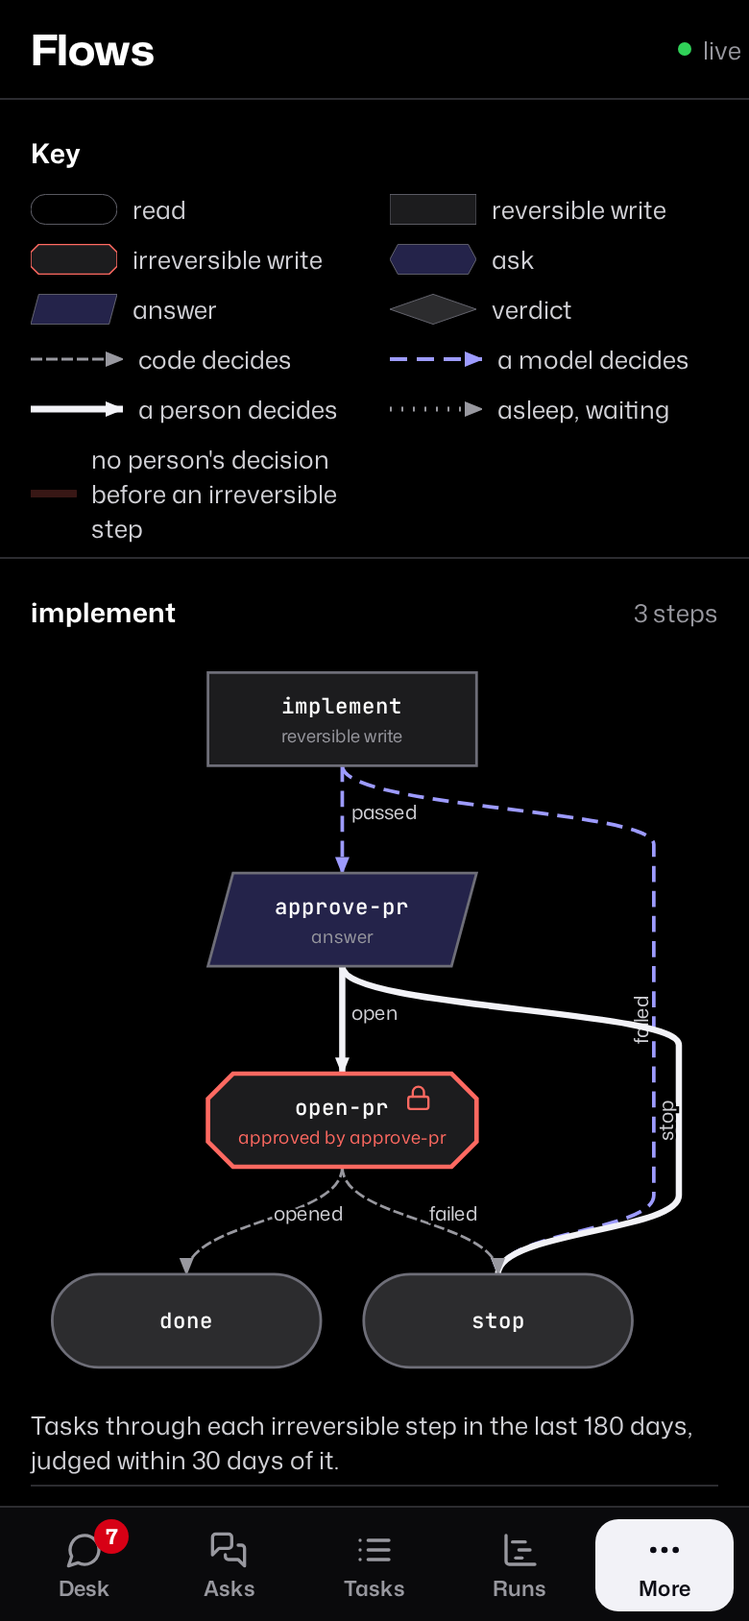
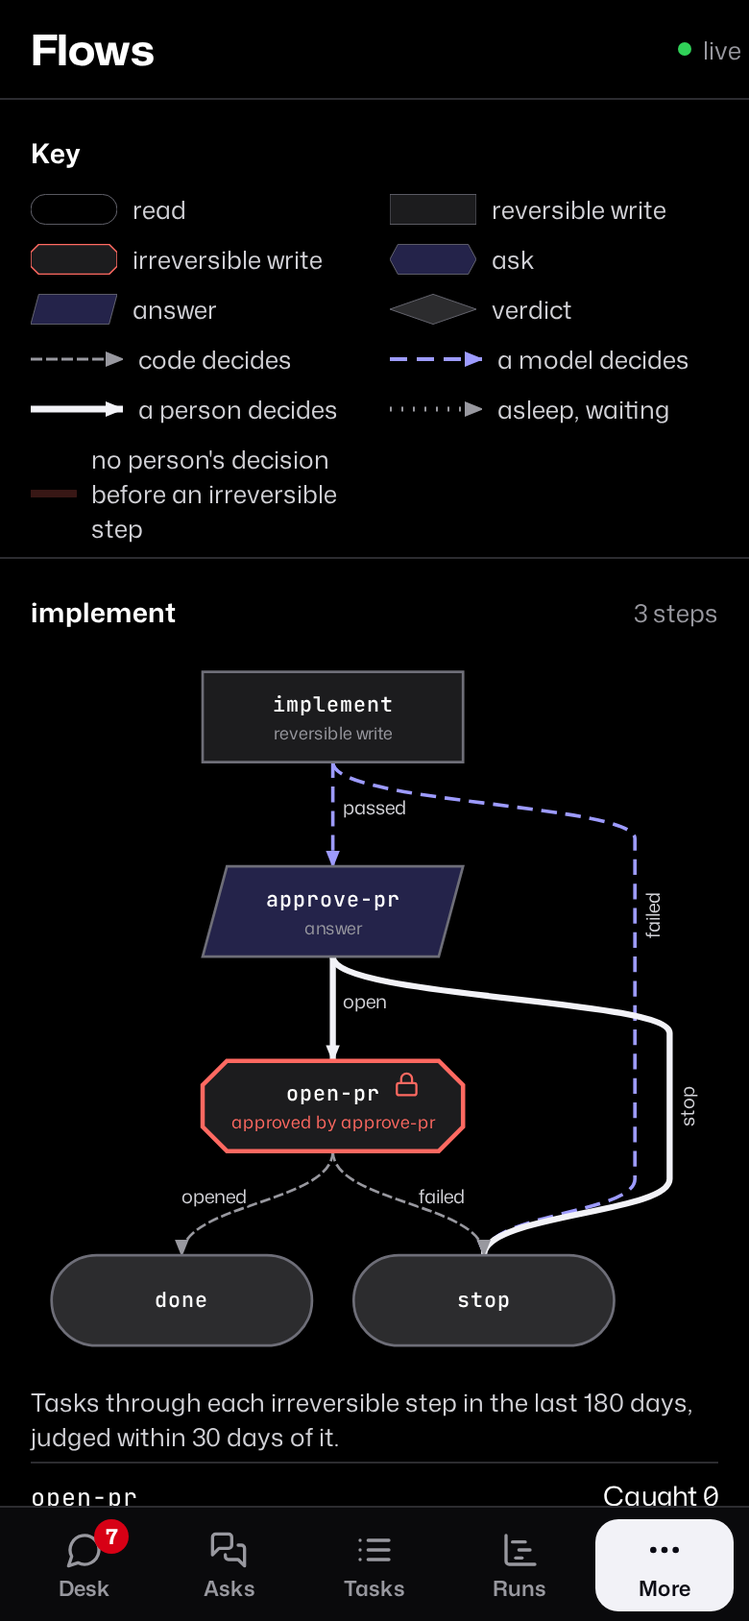
Quiet the empty desk, say Loading everywhere, unstack flow labels, fill the demo (#323)
* Quiet the empty desk, say Loading everywhere, unstack flow labels, fill the demo

An empty desk shows no 64 px "0": it says "Nothing needs you" in the
body role, its empty Up next and Since you looked read as plain
sentences, and the wide desk drops an empty table header. Every loading
line, web and Herdr, says "Loading ...", and DESIGN.md drops the
skeleton rows the code never drew.

Flow lanes sit 20 px apart. A turned label sits right of its own lane,
at the longest stretch no outer lane bends across, and a slanted label
sits on the side its edge heads to, off its own curve.

The demo seed gains a live run, a command ask, a snoozed ask, a stalled
queue's banner, a running check, and a task with Markdown brief and
plan text, so a design review can reach those states.

* Keep loop labels on their lane, word the empty count for stopped work, seed a check the view can show

A loop back runs up its lane, so its label search took a reversed span
and put the label at the lane's end. The span is now ordered first.

With no open ask but stopped work, "Nothing needs you" was wrong; the
count says "No asks need you" over the line that names it.

The intake stores only completed check runs, so the seeded running
check never reached the listing. The seed adds a skipped check instead.

Changed region(s): [[0.0308, 0.4005, 0.9538, 0.9242], [0.2462, 0.4005, 0.2769, 0.4621]]

diff --git a/crates/priory-core/web/app.js b/crates/priory-core/web/app.js
@@ -11,7 +11,7 @@ import { KINDS, edgeStyle, historyRows, lockBadge, nodeShape, timeline, ungatedP
 import { emptyDetail, eventWords, handled, neverOwned, sinceWords, routeAction, unheardActs, unheardNote, unroutedNote } from "./inbox.js";
 import { editBody, issueName, laneLayout, momentWords, stages, successors } from "./batches.js";
 import { EARLIER_CAP, KEYS, keyboardSession, paintRows, sayLine, screenRows, screenWatch } from "./terminal.js";
-import { actionNote, batchParts, capsuleWords, countWords, dueParts, memoryNote, memoryTag, mergeSince, nextLink, onRoom, progressView, rowAction, sectionInView, sinceGroups } from "./desk.js";
+import { actionNote, batchParts, capsuleWords, countHead, countWords, dueParts, memoryNote, memoryTag, mergeSince, nextLink, onRoom, progressView, rowAction, sectionInView, sinceGroups } from "./desk.js";
 import { TASK_VIEWS, elsewhere, filtered, olderPart, remoteActs, remoteId, remoteSent, taskFacets, taskLabel, taskViews, triageWords, workStep } from "./tasks.js";
 import { RUN_FACETS, RUN_VIEWS, duration, runState, runViews, tokenText } from "./runs.js";
 import { PANELS, backTo, pageTitle } from "./pages.js";
@@ -634,9 +634,10 @@ function upNext(model, queueLink = true) {
   const what = (run) => html`<span class="mono">${run.key ? taskLabel(run.key) : run.trigger}</span> ${run.why}`;
   const body = next.length
     ? html`<ol>${next.map((run) => html`<li>${timeTag(run.at, when(run))}${run.task ? html`<a href="/tasks/${run.task}" title="task ${run.task}">${what(run)}</a>` : html`<span>${what(run)}</span>`}</li>`)}</ol>`
-    : html`<p>Nothing is queued or scheduled to run next.</p>`;
+    : null;
   const link = queueLink ? html`<a class="open" href="/queue">Open the queue</a>` : "";
-  return html`<div class="sec">Up next<span>next 3 runs</span></div><div class="strip">${body}${link}</div>`;
+  const shown = body ? html`<div class="strip">${body}${link}</div>` : html`<p class="empty">Nothing is queued or scheduled to run next.</p>${link}`;
+  return html`<div class="sec">Up next<span>next 3 runs</span></div>${shown}`;
 }
 
 // The one next thing (DESIGN.md, Desk): the desk's `next`, an alarm or the ask that ranks first, and why.
@@ -665,8 +666,9 @@ function sinceYouLooked() {
   const body = groups.length
     ? groups.map((group) => html`<div class="sgroup">${group.task ? html`<a class="mono" href="/tasks/${group.task}" title="task ${group.task}">${taskLabel(group.key)}</a>` : html`<span class="mono">factory</span>`}
       <ol>${group.events.map((event) => html`<li>${timeTag(event.time)}<span>${sinceWords(event.what)}</span></li>`)}</ol></div>`)
-    : html`<p>Nothing happened since you looked.</p>`;
-  return html`<div class="sec">Since you looked<span>${from ? `since ${today(from) ? clock(from) : date(from)}` : "latest 50"}</span></div><div class="strip since" data-since>${body}</div>`;
+    : null;
+  const shown = body ? html`<div class="strip since" data-since>${body}</div>` : html`<p class="empty" data-since>Nothing happened since you looked.</p>`;
+  return html`<div class="sec">Since you looked<span>${from ? `since ${today(from) ? clock(from) : date(from)}` : "latest 50"}</span></div>${shown}`;
 }
 
 function deskBody(wide) {
@@ -833,6 +835,7 @@ const review = html`<span class="task-acts"><a class="btn secondary act" href="/
 const itemActs = (item) => (["blocked", "failed"].includes(item.kind) ? taskActs(item.task, item.kind) : rowActs(item));
 
 function deskTable(model, selected) {
+  if (!model.open.length && !model.stopped.length && !model.todos.length && !model.other.length) return "";
   const itemLine = (item) => item.kind === "memories" ? html`<tr>
     <td>${stateWord("memories")}</td><td class="mono"></td><td></td><td class="q full"><span>${item.candidates?.length ?? 0} memory candidates: ${(item.candidates || []).map((candidate) => candidate.name).join(", ")}</span>${fold(review)}</td>
     <td class="recw">${review}</td><td class="r">${timeTag(item.since)}</td></tr>` : html`<tr>
@@ -1590,7 +1593,7 @@ function terminalBody({ term, task, tmux, end }) {
   if (stale && !end && !gone) notes.push(["warn", "unplug", screen ? `Reconnecting. Screen from ${clock(new Date(at).toISOString())}, ${Math.round((Date.now() - at) / 1000)} s ago.` : "Reconnecting. The screen could not be read yet."]);
   if (end) notes.push(["", (STATES[end] || [, "circle-help"])[1], screen ? `Run ${run} ended as ${end}. This is the last screen this page saw.` : `Run ${run} ended as ${end}.`]);
   else if (gone) notes.push(["warn", "unplug", `This server reads no screen of run ${run}. Run priory screen ${task} on the runner to see why.`]);
-  else if (!screen && !stale) notes.push(["", "clock", "Reading the screen…"]);
+  else if (!screen && !stale) notes.push(["", "clock", "Loading the screen…"]);
   const keys = keyboard.state();
   const held = end ? null : keys.held;
   const offer = !end && !held && Boolean(screen?.keyboard);
@@ -2554,7 +2557,7 @@ const flowEdge = (edge) => {
   const line = (extra) => html`<path d="${edge.d}" fill="none" stroke-width="${style.width}" ${style.dash ? raw(`stroke-dasharray="${style.dash}"`) : ""} class="${extra}"/>`;
   return html`<g class="fedge by-${edge.by}${edge.ungated ? " ungated" : ""}"><title>${edge.outcome}: ${edge.from} to ${edge.to}, ${BY_WORD[edge.by] ?? edge.by}${edge.ungated ? ", reaches an irreversible step with no person's decision" : ""}</title>
     ${edge.ungated ? html`<path d="${edge.d}" fill="none" stroke-width="${style.width + 6}" class="halo"/>` : ""}${line("fline")}
-    <text x="${edge.mid.x + (edge.vertical ? 0 : 5)}" y="${edge.mid.y}" class="felabel"${edge.vertical ? raw(` transform="rotate(-90 ${edge.mid.x} ${edge.mid.y})" text-anchor="middle"`) : ""}>${clip(edge.outcome, 14)}</text></g>`;
+    <text x="${edge.label.x}" y="${edge.label.y}" text-anchor="${edge.label.anchor}" class="felabel"${edge.label.turned ? raw(` transform="rotate(-90 ${edge.label.x} ${edge.label.y})"`) : ""}>${clip(edge.outcome, 14)}</text></g>`;
 };
 
 const flowLegend = () => html`<section class="sect flegend" aria-labelledby="legend-title"><h2 class="sh" id="legend-title">Key</h2>
@@ -2588,7 +2591,7 @@ function flowsPage(compact) {
   const head = compact ? html`<div class="top"><h1>Flows</h1><span class="sp"></span>${connection()}</div>` : html`<div class="lhead"><h1>Flows</h1></div>`;
   const flows = state.data.flows;
   if (!flows && state.flowsError) return html`${head}<p class="empty" role="alert">The flows did not load: ${state.flowsError}. Run <code>priory check --explain</code> meanwhile.</p><p class="empty"><button class="btn secondary" data-action="flows-retry">Retry</button></p>`;
-  if (!flows) { setTimeout(loadFlows); return html`${head}<p class="empty" role="status">Loading the flows.</p>`; }
+  if (!flows) { setTimeout(loadFlows); return html`${head}<p class="empty" role="status">Loading the flows…</p>`; }
   const body = flows.workflows.length ? html`${flowLegend()}${flows.workflows.map((workflow) => flowSection(workflow, flows.paths, flows.irreversible))}` : html`<p class="empty">This factory has no workflows. Add one under <code>workflows/</code>.</p>`;
   return html`${head}<div class="panel" role="region" aria-label="Flows"><div class="scroll">${body}</div></div>`;
 }
@@ -2735,10 +2738,10 @@ async function turnPush(on) {
 // Screens
 function deskPhone(withCapsule = true) {
   const { model, views, banner, rows } = deskBody(false);
-  const n = model.open.length;
+  const head = countHead(model.open.length);
   return html`<div class="top"><span class="fac">${state.data.views.factory}</span>${connection()}</div>
     <div class="panel" role="region" aria-label="Desk"><h1 class="sr">Desk</h1><div class="scroll ${withCapsule ? "desk-end" : ""}">
-      <div class="count"><span class="n num">${n}</span><span class="w">${n === 1 ? "ask needs you" : "asks need you"}<span>${countLine(model)}</span></span></div>
+      <div class="count ${head.n ? "" : "quiet"}">${head.n ? html`<span class="n num">${head.n}</span>` : ""}<span class="w">${head.words}<span>${countLine(model)}</span></span></div>
       ${nextCard(model)}${views}${banner}${rows}</div>${withCapsule ? capsule(model) : ""}</div>`;
 }
 
@@ -2751,9 +2754,9 @@ function asksPhone() {
 function listPanel(panel, wide) {
   if (panel === "desk") {
     const { model, views, banner, rows } = deskBody(wide);
-    const n = model.open.length;
+    const head = countHead(model.open.length);
     return html`<div class="list" role="region" aria-label="Desk"><div class="lhead"><h1>Desk</h1>
-      <span class="cnt"><span class="n num">${n}</span><span class="w">${n === 1 ? "ask needs you" : "asks need you"}<span>${countLine(model)}</span></span></span></div>
+      <span class="cnt">${head.n ? html`<span class="n num">${head.n}</span>` : ""}<span class="w">${head.words}<span>${countLine(model)}</span></span></span></div>
       ${nextCard(model)}${views}${banner}<div class="scroll">${rows}</div>${wide ? keyHints() : ""}</div>`;
   }
   if (panel === "inbox") {

diff --git a/crates/priory-core/web/flows.test.js b/crates/priory-core/web/flows.test.js
@@ -124,3 +124,53 @@ test("each irreversible step of a workflow shows its history: counts, then the b
   ]);
   assert.deepEqual(historyRows([{ workflow: "implement", step: "open-pr", risk_estimate: null }], "implement"), []);
 });
+
+// An 11 px label turned a quarter: its ascent reaches 11 px left of the baseline, its descent 3 px right.
+test("a turned label sits between its own lane and the next, clear of every line", () => {
+  const drawing = timeline(implement, new Set());
+  const turned = drawing.edges.filter((each) => each.label.turned);
+  assert.ok(turned.length >= 3);
+  const lanes = turned.map((each) => each.lane).sort((a, b) => a - b);
+  for (const each of turned) {
+    const [left, right] = [each.label.x - 11, each.label.x + 3];
+    assert.ok(lanes.every((lane) => lane < left - 1 || lane > right + 1), `${each.outcome} sits on a lane`);
+    assert.ok(left > each.lane && right < drawing.width, `${each.outcome} leaves its lane's band`);
+  }
+});
+
+test("a slanted label sits on the side its edge heads to, off its own curve", () => {
+  const drawing = timeline(implement, new Set());
+  const opened = drawing.edges.find((each) => each.outcome === "opened");
+  const failed = drawing.edges.find((each) => each.from === "open-pr" && each.outcome === "failed");
+  assert.deepEqual([opened.label.turned, opened.label.anchor], [false, "end"]);
+  assert.ok(opened.label.x < opened.mid.x);
+  assert.deepEqual([failed.label.turned, failed.label.anchor], [false, "start"]);
+  assert.ok(failed.label.x > failed.mid.x);
+});
+
+// A lane edge bends from its node to its lane between 24 and 44 px past the node, at each end, so
+// it crosses every lane inside its own there.
+test("a turned label sits where no outer lane edge bends across it", () => {
+  const drawing = timeline(implement, new Set());
+  const turned = drawing.edges.filter((each) => each.label.turned);
+  for (const each of turned) {
+    const half = (each.outcome.length * 6.5) / 2;
+    const [top, bottom] = [each.label.y - half, each.label.y + half];
+    for (const outer of turned.filter((other) => other.lane > each.lane)) {
+      const [from, to] = [Number(/^M[\d.]+ ([\d.]+)/.exec(outer.d)[1]), Number(/V([\d.]+)/.exec(outer.d)[1])];
+      for (const [a, b] of [[from + 20, from + 48], [to - 4, to + 24]]) assert.ok(bottom < a || top > b, `${each.outcome} is crossed by ${outer.outcome}`);
+    }
+  }
+});
+
+test("a loop back's turned label stays on its own lane's straight part, inside the drawing", () => {
+  const looping = structuredClone(implement);
+  looping.steps[1].edges[1] = edge("rejected", "plan", "human");
+  looping.steps[0].edges.push(edge("again", "plan", "model"));
+  const drawing = timeline(looping, new Set());
+  for (const each of drawing.edges.filter((one) => one.label.turned)) {
+    const [low, high] = [Math.min(...each.straight), Math.max(...each.straight)];
+    assert.ok(each.label.y > low && each.label.y < high, `${each.outcome} sits at its lane's end`);
+    assert.ok(each.label.y > 0 && each.label.y < drawing.height, `${each.outcome} leaves the drawing`);
+  }
+});

diff --git a/adapters/herdr/mods/priory-flows/view.js b/adapters/herdr/mods/priory-flows/view.js
@@ -6,7 +6,8 @@ export const KINDS = ["read", "reversible", "irreversible", "ask", "answer", "ve
 const WRITES = { reversible: "reversible write", irreversible: "irreversible write" };
 const NODE = { width: 150, height: 52 };
 const GAP = { column: 24, row: 60, edge: 12 };
-const LANE = { pad: 8, step: 14 };
+// A lane is wide enough for its turned label to sit beside its line, clear of the next lane.
+const LANE = { pad: 8, step: 20 };
 const PER_ROW = 2;
 
 /**
@@ -57,6 +58,26 @@ export function ungatedPairs(workflow, paths) {
     entry.path.slice(1).forEach((to, at) => pairs.add(`${entry.path[at]}>${to}`));
   }
   return pairs;
+}
+
+/**
+ * Where a turned label sits along its lane: the middle of the longest stretch of the lane's
+ * straight part that no outer lane edge bends across, 24 px either side of its straight part.
+ * @param {any} edge @param {any[]} edges
+ */
+function clearOf(edge, edges) {
+  // A loop back runs up its lane, so its straight part starts below where it ends.
+  const [top, bottom] = [Math.min(...edge.straight), Math.max(...edge.straight)];
+  const bends = edges.filter((other) => other.label.turned && other.lane > edge.lane)
+    .flatMap((other) => [[other.straight[0] - 24, other.straight[0] + 4], [other.straight[1] - 4, other.straight[1] + 24]])
+    .sort((a, b) => a[0] - b[0]);
+  let [best, from] = [[top, top], top];
+  for (const [start, end] of [...bends, [bottom, bottom]]) {
+    const to = Math.min(start, bottom);
+    if (to - from > best[1] - best[0]) best = [from, to];
+    from = Math.max(from, end);
+  }
+  return (best[0] + best[1]) / 2;
 }
 
 /**
@@ -124,11 +145,15 @@ export function timeline(workflow, ungated) {
       ? `M${start.x} ${start.y}C${start.x} ${start.y + 24} ${lane} ${start.y + 24} ${lane} ${start.y + 44}V${end.y - 44}C${lane} ${end.y - 24} ${end.x} ${end.y - 24} ${end.x} ${end.y}`
       : `M${start.x} ${start.y}C${start.x} ${start.y + 30} ${end.x} ${end.y - 30} ${end.x} ${end.y}`;
     const mid = skips ? { x: lane - 3, y: (start.y + end.y) / 2 } : { x: (start.x + end.x) / 2, y: (start.y + end.y) / 2 };
+    // A slanted label goes on the side its edge heads to, where its own curve is not.
+    const left = end.x < start.x;
+    const label = skips ? { x: lane + 14, y: mid.y, anchor: "middle", turned: true } : { x: mid.x + (left ? -6 : 6), y: mid.y, anchor: left ? "end" : "start", turned: false };
     return {
-      from: step.id, to: next.to, outcome: next.outcome, by: next.by, d, mid, back: looped, vertical: skips,
+      from: step.id, to: next.to, outcome: next.outcome, by: next.by, d, mid, lane: skips ? lane : null, label, back: looped, vertical: skips, straight: [start.y + 44, end.y - 44],
       ungated: next.by !== "human" && ungated.has(`${step.id}>${next.to}`),
     };
   }));
+  for (const edge of edges) if (edge.label.turned) edge.label.y = clearOf(edge, edges);
   const width = block + lanes * LANE.step + LANE.pad;
   const height = (rows.length) * (NODE.height + GAP.row) - GAP.row + 2 * GAP.edge;
   const text = [

diff --git a/crates/priory-core/web/flows.js b/crates/priory-core/web/flows.js
@@ -6,7 +6,8 @@ export const KINDS = ["read", "reversible", "irreversible", "ask", "answer", "ve
 const WRITES = { reversible: "reversible write", irreversible: "irreversible write" };
 const NODE = { width: 150, height: 52 };
 const GAP = { column: 24, row: 60, edge: 12 };
-const LANE = { pad: 8, step: 14 };
+// A lane is wide enough for its turned label to sit beside its line, clear of the next lane.
+const LANE = { pad: 8, step: 20 };
 const PER_ROW = 2;
 
 /**
@@ -57,6 +58,26 @@ export function ungatedPairs(workflow, paths) {
     entry.path.slice(1).forEach((to, at) => pairs.add(`${entry.path[at]}>${to}`));
   }
   return pairs;
+}
+
+/**
+ * Where a turned label sits along its lane: the middle of the longest stretch of the lane's
+ * straight part that no outer lane edge bends across, 24 px either side of its straight part.
+ * @param {any} edge @param {any[]} edges
+ */
+function clearOf(edge, edges) {
+  // A loop back runs up its lane, so its straight part starts below where it ends.
+  const [top, bottom] = [Math.min(...edge.straight), Math.max(...edge.straight)];
+  const bends = edges.filter((other) => other.label.turned && other.lane > edge.lane)
+    .flatMap((other) => [[other.straight[0] - 24, other.straight[0] + 4], [other.straight[1] - 4, other.straight[1] + 24]])
+    .sort((a, b) => a[0] - b[0]);
+  let [best, from] = [[top, top], top];
+  for (const [start, end] of [...bends, [bottom, bottom]]) {
+    const to = Math.min(start, bottom);
+    if (to - from > best[1] - best[0]) best = [from, to];
+    from = Math.max(from, end);
+  }
+  return (best[0] + best[1]) / 2;
 }
 
 /**
@@ -124,11 +145,15 @@ export function timeline(workflow, ungated) {
       ? `M${start.x} ${start.y}C${start.x} ${start.y + 24} ${lane} ${start.y + 24} ${lane} ${start.y + 44}V${end.y - 44}C${lane} ${end.y - 24} ${end.x} ${end.y - 24} ${end.x} ${end.y}`
       : `M${start.x} ${start.y}C${start.x} ${start.y + 30} ${end.x} ${end.y - 30} ${end.x} ${end.y}`;
     const mid = skips ? { x: lane - 3, y: (start.y + end.y) / 2 } : { x: (start.x + end.x) / 2, y: (start.y + end.y) / 2 };
+    // A slanted label goes on the side its edge heads to, where its own curve is not.
+    const left = end.x < start.x;
+    const label = skips ? { x: lane + 14, y: mid.y, anchor: "middle", turned: true } : { x: mid.x + (left ? -6 : 6), y: mid.y, anchor: left ? "end" : "start", turned: false };
     return {
-      from: step.id, to: next.to, outcome: next.outcome, by: next.by, d, mid, back: looped, vertical: skips,
+      from: step.id, to: next.to, outcome: next.outcome, by: next.by, d, mid, lane: skips ? lane : null, label, back: looped, vertical: skips, straight: [start.y + 44, end.y - 44],
       ungated: next.by !== "human" && ungated.has(`${step.id}>${next.to}`),
     };
   }));
+  for (const edge of edges) if (edge.label.turned) edge.label.y = clearOf(edge, edges);
   const width = block + lanes * LANE.step + LANE.pad;
   const height = (rows.length) * (NODE.height + GAP.row) - GAP.row + 2 * GAP.edge;
   const text = [

diff --git a/crates/priory-core/web/app.css b/crates/priory-core/web/app.css
@@ -82,6 +82,8 @@ input { font: 400 16px/20px var(--font-ui); color: var(--text); background: var(
 .count .n { font: var(--count-weight) var(--type-count) var(--font-display); font-stretch: var(--count-stretch); letter-spacing: var(--count-tracking); color: var(--count); }
 .count .w { font: 700 var(--type-hero) var(--font-display); font-stretch: var(--display-stretch); letter-spacing: -0.3px; }
 .count .w span { display: block; font: 400 var(--type-caption) var(--font-ui); font-stretch: 100%; letter-spacing: 0; color: var(--text-3); margin-top: 2px; }
+/* An empty desk is quiet: no number, the words in the body role (DESIGN.md, Desk). */
+.count.quiet .w { font: 600 var(--type-body) var(--font-ui); font-stretch: 100%; letter-spacing: 0; color: var(--text-2); }
 
 /* Saved views */
 .views { flex: none; display: flex; gap: var(--space-2); padding: 5px var(--gutter); flex-wrap: wrap; }
@@ -132,6 +134,8 @@ a.facet[aria-current="true"] { background: var(--action-soft); color: var(--acti
 .row.one .tile, .row.one .chev { grid-row: auto; grid-column: auto; margin: 0; }
 .row.past .l2 { color: var(--text-2); font-weight: 400; }
 .empty { padding: var(--space-8) var(--gutter); color: var(--text-2); font: 400 var(--type-small) var(--font-ui); max-width: 52ch; }
+.sec + .empty { padding: 2px var(--gutter) 12px; }
+.sec + .empty + .open { display: inline-flex; align-items: center; min-height: 44px; margin: -12px var(--gutter) 0; color: var(--action-text); font: 500 var(--type-small) var(--font-ui); }
 .empty code, .note code { font: 400 13px/1 var(--font-mono); background: var(--raised); padding: 2px 5px; border-radius: var(--radius-sm); }
 .strip { margin: 0 var(--gutter); padding: 12px; border: 1px solid var(--line); border-radius: var(--radius-md); color: var(--text-3); font: 400 var(--type-small) var(--font-ui); }
 .strip li { display: grid; grid-template-columns: 96px minmax(0, 1fr); gap: 8px; padding: 6px 0; color: var(--text-2); }

diff --git a/adapters/herdr/test/flows.test.js b/adapters/herdr/test/flows.test.js
@@ -60,10 +60,16 @@ test("an upright lane label that would cover another moves down a line, and the 
   const flows = fixture("flows-groom");
   const [groom] = flows.workflows;
   const edges = timeline(groom, ungatedPairs(groom.name, flows.paths)).edges;
-  const spots = labelSpots(edges, 1);
-  const at = (from, to) => spots[edges.findIndex((edge) => edge.from === from && edge.to === to)];
-  // rejected and failed share their lanes' middle, 42 px apart: the later one moves 16 px down.
-  assert.deepEqual([at("approve-plan", "stop"), at("implement-green", "stop")], [{ x: 365, y: 422 }, { x: 407, y: 438 }]);
+  const spotsAt = (scale) => {
+    const spots = labelSpots(edges, scale);
+    return (from, to) => spots[edges.findIndex((edge) => edge.from === from && edge.to === to)];
+  };
+  // At full size, rejected and failed share their lanes' middle 60 px apart, so neither moves.
+  const at = spotsAt(1);
+  assert.deepEqual([at("approve-plan", "stop"), at("implement-green", "stop")], [{ x: 371, y: 422 }, { x: 431, y: 422 }]);
   assert.deepEqual(at("groom", "implement"), { x: 351, y: 142 });
   assert.deepEqual(at("groom", "approve-plan"), { x: 135.5, y: 86 });
+  // At half size they sit 30 px apart: the later one moves down whole lines until it covers none.
+  const half = spotsAt(0.5);
+  assert.deepEqual([half("approve-plan", "stop"), half("implement-green", "stop")], [{ x: 188.5, y: 207 }, { x: 218.5, y: 255 }]);
 });

diff --git a/crates/priory-core/web/desk.test.js b/crates/priory-core/web/desk.test.js
@@ -1,6 +1,6 @@
 import { test } from "node:test";
 import assert from "node:assert/strict";
-import { nextLink, onRoom, sinceGroups, mergeSince, progressView, sectionInView, dueText, rowAction, actionNote, batchParts, countWords, memoryNote, memoryTag, capsuleWords } from "./desk.js";
+import { nextLink, onRoom, sinceGroups, mergeSince, progressView, sectionInView, dueText, rowAction, actionNote, batchParts, countWords, memoryNote, memoryTag, capsuleWords, countHead } from "./desk.js";
 
 const why = "work stopped and waits on a person";
 
@@ -151,6 +151,12 @@ test("the Desk's count line names every item Needs me counts besides the asks", 
   assert.equal(countWords({ oldest: null, stopped: 0, todos: 2, reports: 1, other: 0 }), "Also 2 to-dos and 1 report.");
   assert.equal(countWords({ oldest: null, stopped: 2, todos: 1, reports: 3, other: 1 }), "Also 2 stopped, 1 to-do, 3 reports and 1 waiting.");
   assert.equal(countWords({ ...none, oldest: null }), "");
+});
+
+test("the count shows a number only when an ask needs you, so an empty desk stays quiet", () => {
+  assert.deepEqual(countHead(0), { n: null, words: "No asks need you" });
+  assert.deepEqual(countHead(1), { n: 1, words: "ask needs you" });
+  assert.deepEqual(countHead(7), { n: 7, words: "asks need you" });
 });
 
 test("the capsule answers while live, and only reads the asks while offline", () => {

diff --git a/adapters/herdr/mods/priory-asks/main.js b/adapters/herdr/mods/priory-asks/main.js
@@ -477,7 +477,7 @@ export default class PrioryAsks extends View {
       answered: "No answered asks yet. An ask moves here once someone answers it.",
       all: "No asks yet. Agents ask here when they need you.",
     }[this.view] ?? "";
-    if (!this.data) return v_flex().id("asks-list").p(16).text_color(t["text-3"]).child(this.error ? "" : "Reading the asks…");
+    if (!this.data) return v_flex().id("asks-list").p(16).text_color(t["text-3"]).child(this.error ? "" : "Loading the asks…");
     return v_flex().id("asks-list").min_h_0().overflow_y_scrollbar().pb(16)
       .when(this.view === "snoozed" && list.sections.length > 0, (el) => el.child(div().px(16).pt(10).text_size(TYPE.caption[0]).text_color(t["text-3"])
         .child("Snoozed asks leave the Open count. The agent keeps waiting, and a new revision brings an ask back early.")))

diff --git a/adapters/herdr/mods/priory-bonjour/main.js b/adapters/herdr/mods/priory-bonjour/main.js
@@ -524,7 +524,7 @@ export default class PrioryBonjour extends View {
   document(model, t, wide) {
     const pad = wide ? S["space-5"] : S["space-4"];
     if (!model) {
-      const text = this.empty ? "No report yet. The factory's bonjour workflow writes one each morning." : this.error ? "" : "Reading the report…";
+      const text = this.empty ? "No report yet. The factory's bonjour workflow writes one each morning." : this.error ? "" : "Loading the report…";
       return v_flex().id("bonjour-document").flex_1().p(pad).text_color(t["text-2"]).child(text);
     }
     return v_flex().id("bonjour-document").flex_1().min_w_0().min_h_0().overflow_y_scrollbar().track_scroll(this.scroll).px(pad).pt(pad).pb(32).gap(6)

diff --git a/adapters/herdr/mods/priory-queue/main.js b/adapters/herdr/mods/priory-queue/main.js
@@ -396,7 +396,7 @@ export default class PrioryQueue extends View {
       ended: "No task ended in the last day.",
       all: "No tasks yet.",
     }[this.view] ?? "";
-    if (!this.data) return v_flex().id("queue-list").p(16).text_color(t["text-3"]).child(this.error ? "" : "Reading the queue…");
+    if (!this.data) return v_flex().id("queue-list").p(16).text_color(t["text-3"]).child(this.error ? "" : "Loading the queue…");
     return v_flex().id("queue-list").min_h_0().overflow_y_scrollbar().pb(16)
       .when(this.view === "next" && this.data.up_next.length > 0, (el) => el.child(this.upNext(t, now)))
       .when(!list.sections.length, (el) => el.child(div().p(16).text_color(t["text-2"]).child(empty)))

diff --git a/crates/priory-core/web/desk.js b/crates/priory-core/web/desk.js
@@ -141,6 +141,9 @@ export function countWords({ oldest, stopped, todos, reports, other }) {
   return [oldest && `Oldest waits ${oldest}.`, also].filter(Boolean).join(" ");
 }
 
+/** The Desk's count: the number of open asks and its words, or no number when none is open, since stopped work can still wait. @param {number} n */
+export const countHead = (n) => (n ? { n, words: n === 1 ? "ask needs you" : "asks need you" } : { n: null, words: "No asks need you" });
+
 /** The Answer capsule's words for `n` open asks: offline it leaves the primary look and only opens the asks to read. */
 export function capsuleWords(n, offline) {
   const asks = `${n} ${n === 1 ? "ask" : "asks"}`;

diff --git a/adapters/herdr/mods/priory-runs/main.js b/adapters/herdr/mods/priory-runs/main.js
@@ -117,7 +117,7 @@ export default class PrioryRuns extends View {
   /** @param {any[]} shown @param {Palette} t @param {number} now */
   body(shown, t, now) {
     const note = (/** @type {string} */ line) => [div().p(S["space-2"]).whitespace_normal().text_color(t["text-2"]).child(line)];
-    if (!this.runs) return this.error ? [] : note("Reading the runs…");
+    if (!this.runs) return this.error ? [] : note("Loading the runs…");
     const week = shown.filter((run) => !run.ended || now - Date.parse(run.started) < WEEK_MS);
     const older = shown.length - week.length;
     const rows = (this.older ? shown : week).map((run) => this.row(run, t, now));
